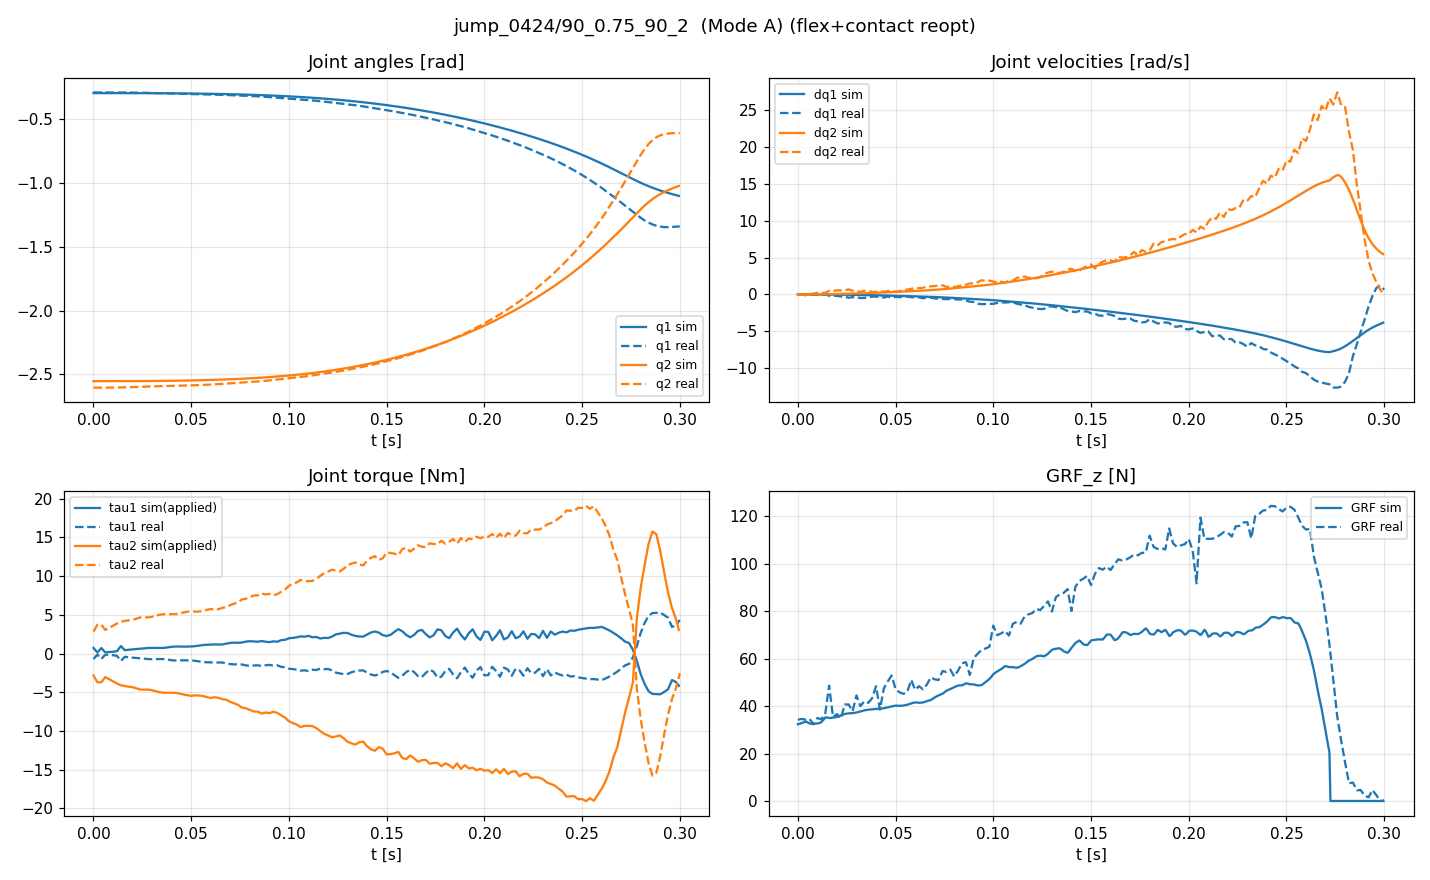
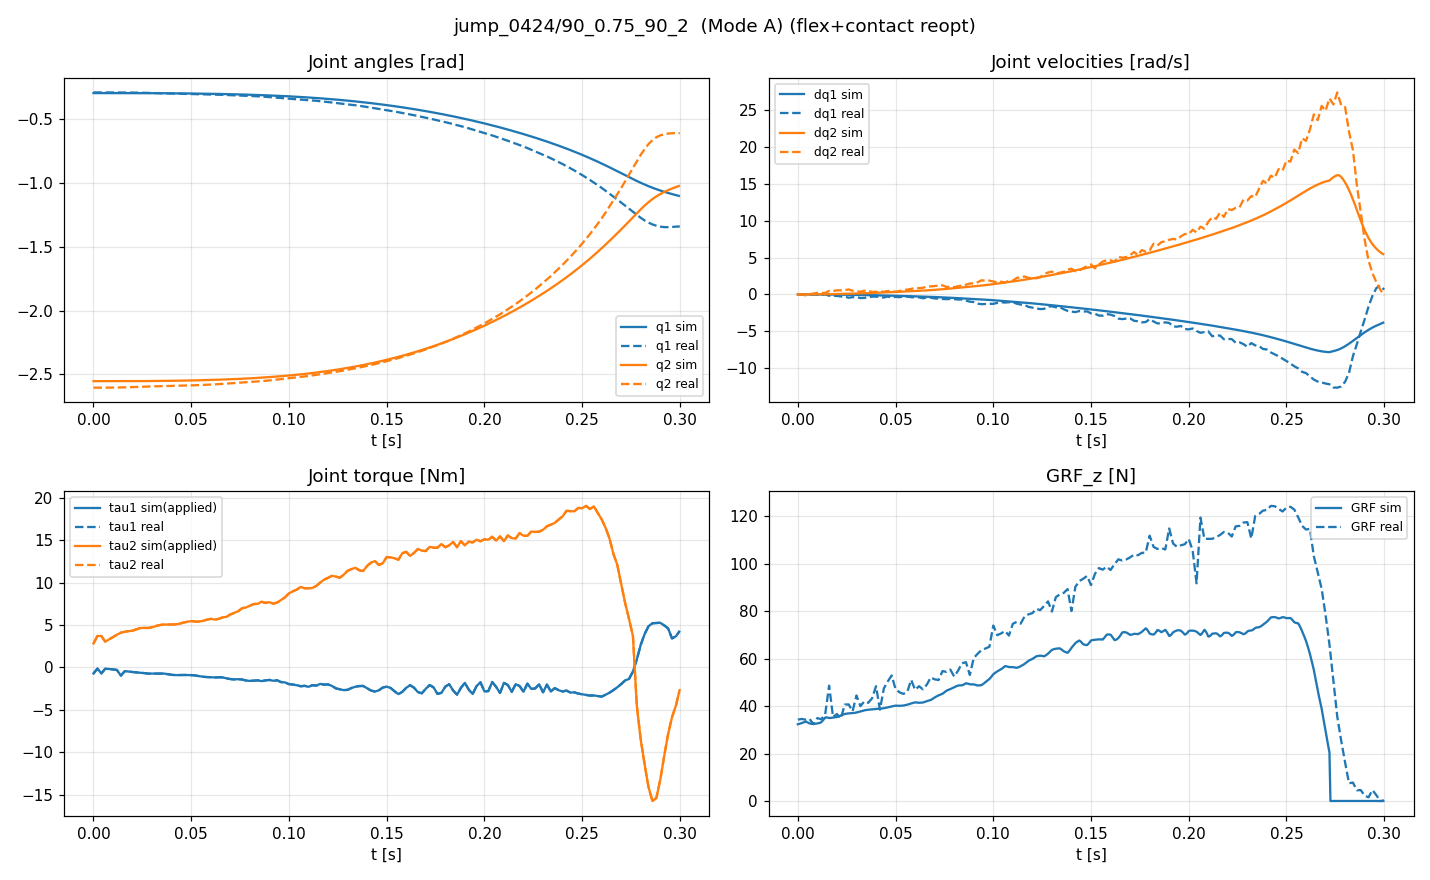
GOAL19: fix 4-panel torque sign — plot tau_sim in canonical frame (overlays tau_real)
tau_app is logged in MuJoCo joint frame (= -tau_real by Mode A construction).
The plot converted angles to canonical (q_sim=-q_mj-pi/2) but plotted tau_app
raw, so sim/real torque appeared as mirror images of the SAME torque. Negate
tau_sim to match the angle convention -> curves now overlay, confirming Mode A
replays the measured torque exactly. Cosmetic (tau has Wt=0, not scored).

Claude-Session: https://claude.ai/code/session_018tXRZDWy9RG1Z1qWD21UNo

diff --git a/code/goal19/templates/plot_4panel.py b/code/goal19/templates/plot_4panel.py
@@ -106,8 +106,12 @@ def plot_sub(ds, sub, out_png, arm_hip=0.0, arm_knee=0.00490, title_extra=""):
     q2_sim = (-log['q'][:, 2])[mask]
     dq1_sim = (-log['dq'][:, 1])[mask]
     dq2_sim = (-log['dq'][:, 2])[mask]
-    tau1_sim = log['tau_app'][:, 0][mask]
-    tau2_sim = log['tau_app'][:, 1][mask]
+    # tau_app is in MuJoCo joint frame (= -tau_real by Mode A construction).
+    # Convert to canonical/real frame (negate) so it overlays tau_real, exactly
+    # as the angles are converted (q_sim = -q_mj - pi/2). Otherwise the two curves
+    # look like mirror images of the SAME torque.
+    tau1_sim = (-log['tau_app'][:, 0])[mask]
+    tau2_sim = (-log['tau_app'][:, 1])[mask]
     grf_sim = log['grf_z'][mask]
 
     q1_real = td['q1'] + q1_off